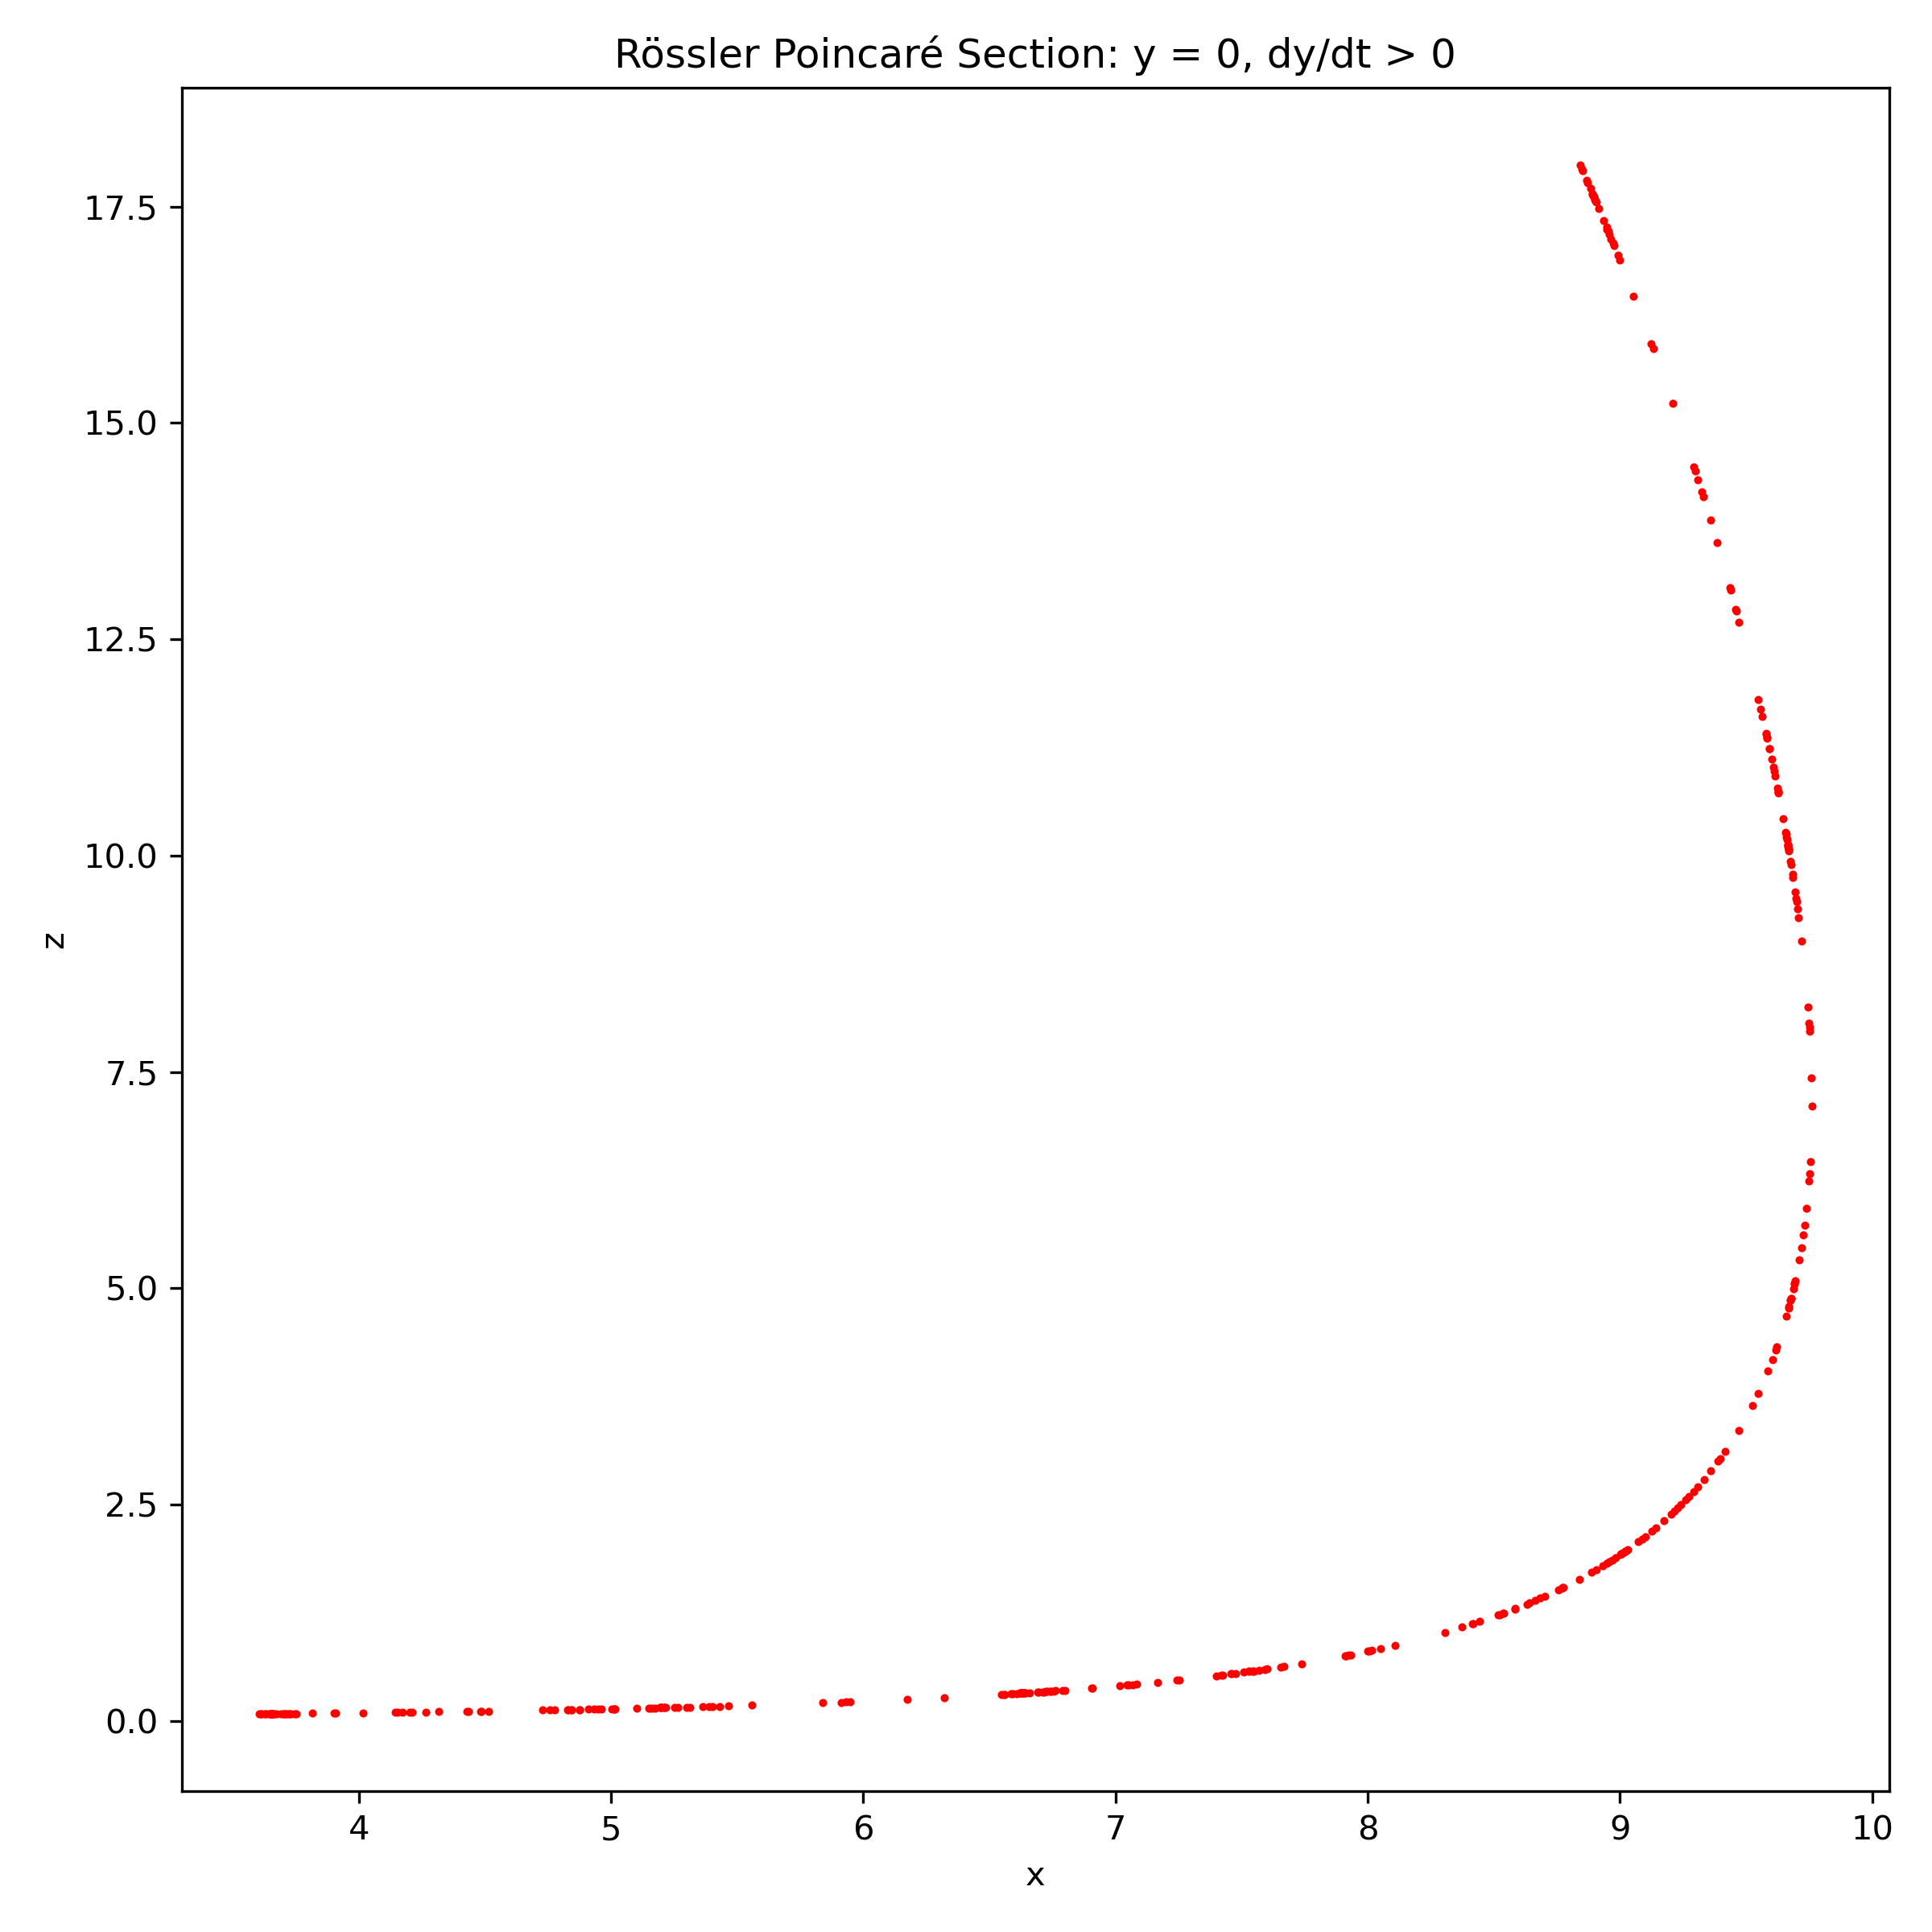
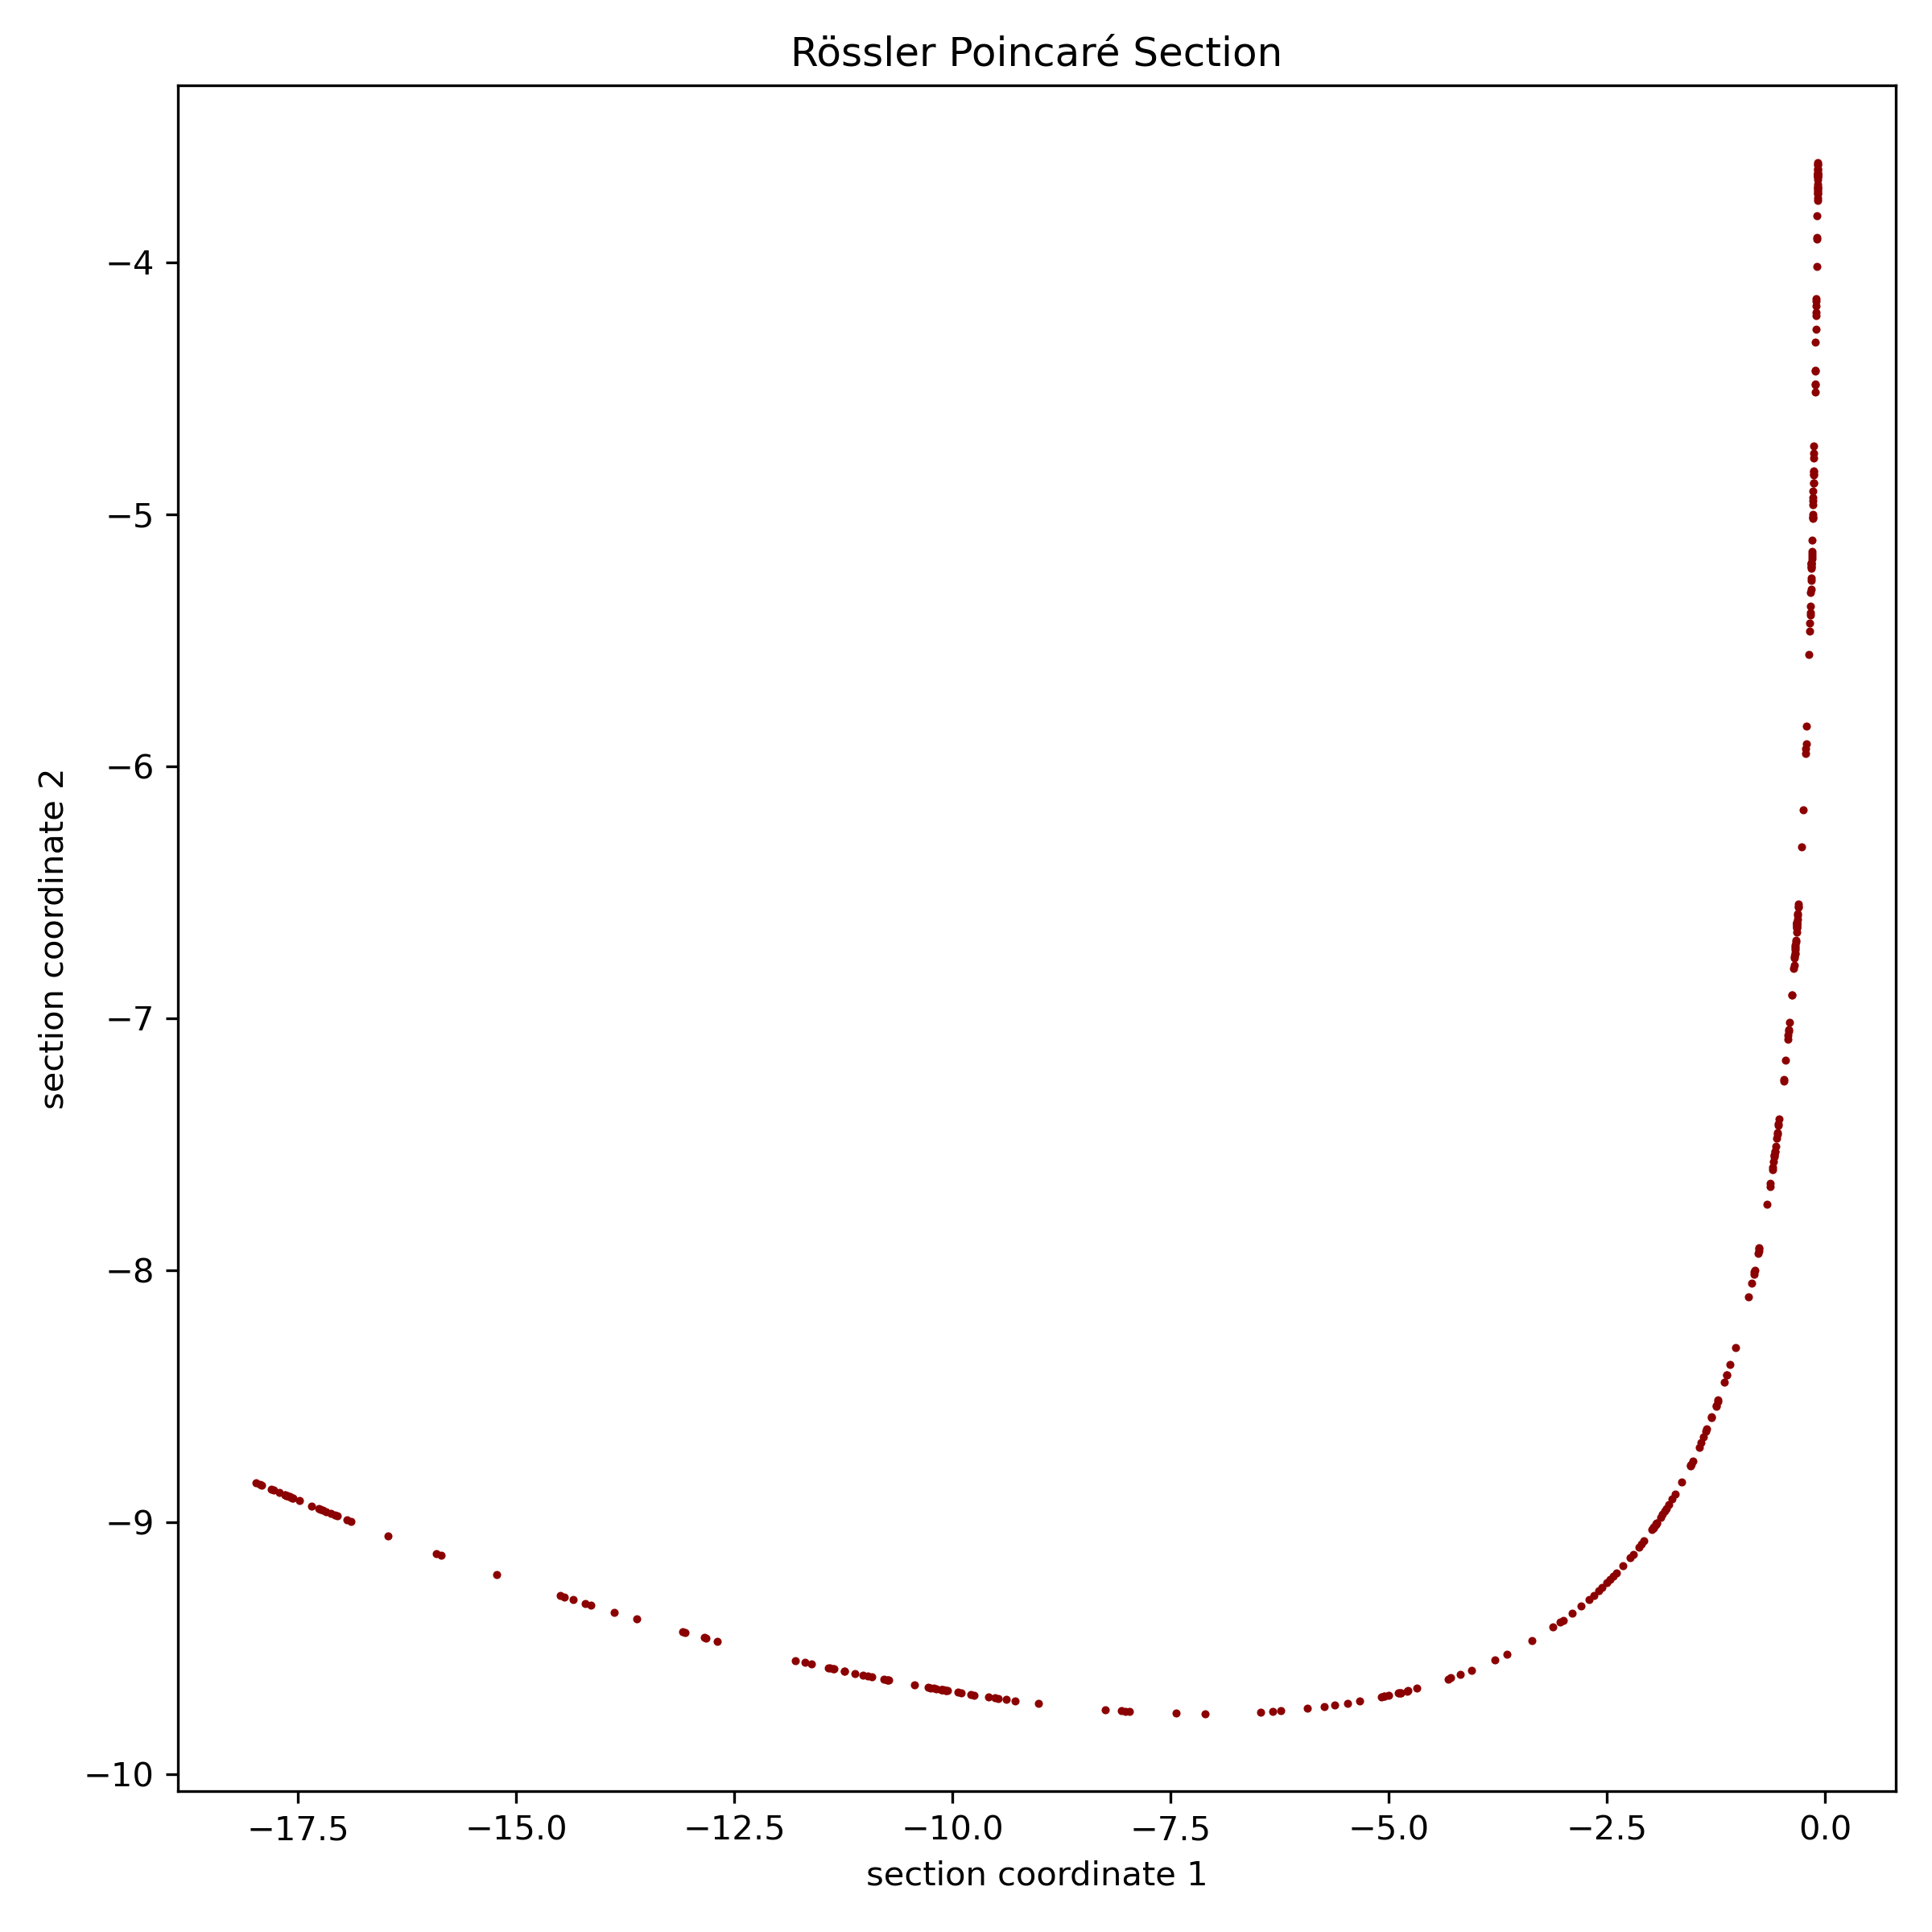
add plane projection support

diff --git a/src/poincare_mapper/sections.py b/src/poincare_mapper/sections.py
@@ -1,9 +1,9 @@
 """
 Poincare section definitions.
 
-A Poincare section is represented as an event function compatible with
-scipy.integrate.solve_ivp. The event function returns zero when the
-trajectory intersects the section.
+A Poincare section is represented as a callable event object compatible
+with scipy.integrate.solve_ivp. The event returns zero when the trajectory
+intersects the section.
 """
 
 from __future__ import annotations
@@ -11,31 +11,48 @@ from __future__ import annotations
 import numpy as np
 
 
-def plane_section(normal, offset=0.0, direction=1):
+class PlaneSection:
     """
-    Create a generic hyperplane Poincare section.
+    Generic hyperplane Poincare section.
 
     The section is defined by:
 
         normal · state = offset
+    """
 
-    Parameters
-    ----------
-    normal:
-        Normal vector of the section plane.
-    offset:
-        Scalar offset from the origin.
-    direction:
-        Crossing direction for scipy event detection.
+    def __init__(self, normal, offset=0.0, direction=1):
+        normal = np.asarray(normal, dtype=float)
 
-        direction =  1  detects negative-to-positive crossings
-        direction = -1  detects positive-to-negative crossings
-        direction =  0  detects crossings in either direction
+        if normal.ndim != 1:
+            raise ValueError("Section normal vector must be one-dimensional.")
 
-    Returns
-    -------
-    callable
-        Event function suitable for scipy.integrate.solve_ivp.
+        norm = np.linalg.norm(normal)
+
+        if norm == 0:
+            raise ValueError("Section normal vector must be non-zero.")
+
+        self.normal = normal / norm
+        self.offset = float(offset)
+        self.direction = direction
+        self.terminal = False
+
+    def __call__(self, t, state):
+        state = np.asarray(state, dtype=float)
+
+        if state.ndim != 1:
+            raise ValueError("State vector must be one-dimensional.")
+
+        if state.shape[0] != self.normal.shape[0]:
+            raise ValueError(
+                "State dimension does not match section normal dimension."
+            )
+
+        return float(np.dot(self.normal, state) - self.offset)
+
+
+def plane_section(normal, offset=0.0, direction=1):
+    """
+    Create a generic hyperplane Poincare section.
 
     Examples
     --------
@@ -52,33 +69,11 @@ def plane_section(normal, offset=0.0, direction=1):
         plane_section([1, 0, -1])
     """
 
-    normal = np.asarray(normal, dtype=float)
-
-    if normal.ndim != 1:
-        raise ValueError("Section normal vector must be one-dimensional.")
-
-    norm = np.linalg.norm(normal)
-
-    if norm == 0:
-        raise ValueError("Section normal vector must be non-zero.")
-
-    normal = normal / norm
-    offset = float(offset)
-
-    def event(t, state):
-        state = np.asarray(state, dtype=float)
-
-        if state.shape[0] != normal.shape[0]:
-            raise ValueError(
-                "State dimension does not match section normal dimension."
-            )
-
-        return float(np.dot(normal, state) - offset)
-
-    event.direction = direction
-    event.terminal = False
-
-    return event
+    return PlaneSection(
+        normal=normal,
+        offset=offset,
+        direction=direction,
+    )
 
 
 def x_equals_zero(direction=1):

diff --git a/src/poincare_mapper/geometry.py b/src/poincare_mapper/geometry.py
@@ -1,0 +1,38 @@
+import numpy as np
+
+
+def plane_basis(normal):
+    normal = np.asarray(normal, dtype=float)
+
+    norm = np.linalg.norm(normal)
+    if norm == 0:
+        raise ValueError("Normal vector must be non-zero.")
+
+    n = normal / norm
+
+    if abs(n[0]) < 0.9:
+        reference = np.array([1.0, 0.0, 0.0])
+    else:
+        reference = np.array([0.0, 1.0, 0.0])
+
+    u = np.cross(n, reference)
+    u = u / np.linalg.norm(u)
+
+    v = np.cross(n, u)
+    v = v / np.linalg.norm(v)
+
+    return u, v
+
+
+def project_to_plane(points, normal):
+    points = np.asarray(points, dtype=float)
+
+    if points.ndim != 2:
+        raise ValueError("Points must be a 2D array.")
+
+    u, v = plane_basis(normal)
+
+    projected_u = points @ u
+    projected_v = points @ v
+
+    return np.column_stack([projected_u, projected_v])

diff --git a/tests/test_geometry.py b/tests/test_geometry.py
@@ -1,0 +1,35 @@
+import numpy as np
+import pytest
+
+from poincare_mapper.geometry import plane_basis, project_to_plane
+
+
+def test_plane_basis_is_orthonormal():
+    normal = np.array([0.0, 1.0, 0.0])
+
+    u, v = plane_basis(normal)
+
+    assert np.dot(u, normal) == pytest.approx(0.0)
+    assert np.dot(v, normal) == pytest.approx(0.0)
+    assert np.dot(u, v) == pytest.approx(0.0)
+
+    assert np.linalg.norm(u) == pytest.approx(1.0)
+    assert np.linalg.norm(v) == pytest.approx(1.0)
+
+
+def test_project_to_plane_returns_2d_coordinates():
+    points = np.array(
+        [
+            [1.0, 0.0, 2.0],
+            [3.0, 0.0, 4.0],
+        ]
+    )
+
+    projected = project_to_plane(points, normal=[0.0, 1.0, 0.0])
+
+    assert projected.shape == (2, 2)
+
+
+def test_zero_normal_raises():
+    with pytest.raises(ValueError):
+        plane_basis([0.0, 0.0, 0.0])

diff --git a/examples/rossler.py b/examples/rossler.py
@@ -1,9 +1,10 @@
 import matplotlib.pyplot as plt
 
 from poincare_mapper.attractors import roessler
+from poincare_mapper.geometry import project_to_plane
 from poincare_mapper.mapper import PoincareMapper
-from poincare_mapper.sections import plane_section
 from poincare_mapper.plotting import save_figure
+from poincare_mapper.sections import plane_section
 
 section = plane_section(
     normal=[0, 1, 0],
@@ -26,13 +27,18 @@ print("crossings:", crossings.shape)
 if len(crossings) == 0:
     raise RuntimeError("No crossings found.")
 
-x = crossings[:, 0]
-z = crossings[:, 2]
+projected = project_to_plane(crossings, section.normal)
 
 plt.figure(figsize=(8, 8))
-plt.scatter(x, z, s=2, color="red")
-plt.title("Rössler Poincaré Section: y = 0, dy/dt > 0")
-plt.xlabel("x")
-plt.ylabel("z")
+plt.scatter(
+    projected[:, 0],
+    projected[:, 1],
+    s=2,
+    color="darkred",
+)
+
+plt.title("Rössler Poincaré Section")
+plt.xlabel("section coordinate 1")
+plt.ylabel("section coordinate 2")
 
 save_figure("rossler_section.png")